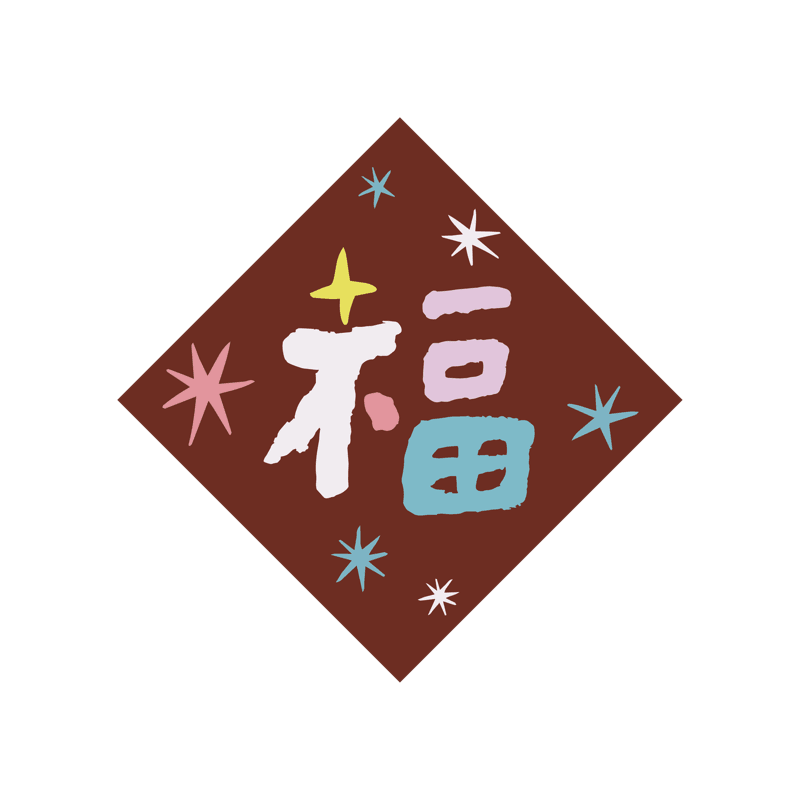
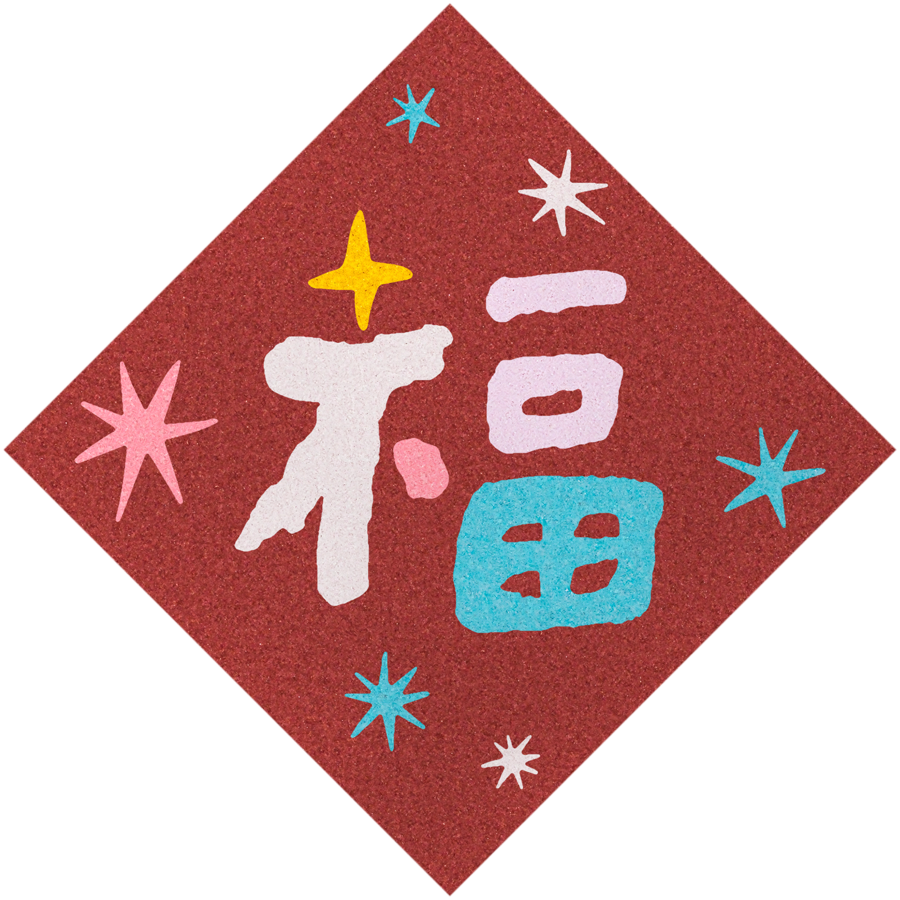
9款春聯沙畫換上實拍質感模擬圖：統一背景首圖＋三色配色示範
使用者提供的新模擬圖取代原本的扁平向量插圖：

- 成品參考圖（出貨配色）：7 款基礎款＋紅／藍羊兩款進階款，全部換成
  帶沙粒顆粒質感、統一白底棚拍風格的新版（{slug}-main.jpg），取代
  原本純色塊無質感的插畫版。寬高比從舊檔的 1:1／4:5 混用統一為新檔
  實際的 4:5（2000×2500），同步更新 <img> 的 width/height 屬性。
- 「搭配自己的顏色」三色配色示範（howto-compare 區塊）：7 款基礎款
  的 combo-1/2/3.png 同步換成沙粒質感版，去背格式與舊檔相同（透明
  邊角的菱形裁切圖），只是質感從平面色塊升級成實拍沙畫顆粒。
- 納福燈籠／迎春燈籠兩款沒有相片牆，combo 檔同時也是首圖輪播
  （data-hero-carousel／data-carousel-frame）用的圖，換檔後兩處
  同步生效，不用個別改 HTML。
- 紅／藍羊因為沒有 howto-compare 配色示範區塊，只換了首圖。

新圖原始檔偏大（combo PNG 因沙粒雜訊 + 透明通道難壓縮，原始
5-6.7MB／張，main.jpg 原始 450-680KB），用 sips 等比縮放到實際
顯示所需的最大尺寸（main.jpg 長邊 1400px、combo 900px）重新壓縮，
27 張圖片總體積從約 150MB 降到約 21MB，畫質在實際顯示尺寸下無
可見差異（已截圖比對）。

已用本機 Playwright 驗證全部 9 頁：新圖正確載入（natural dimension
比對）、三種版位（相片牆首圖／輪播首圖／三色示範格）皆正常顯示、
390px 寬零橫向捲動、零 console error。

diff --git a/products/sand-art-na-fu-lantern/index.html b/products/sand-art-na-fu-lantern/index.html
@@ -161,7 +161,7 @@
            .work__gallery--thumbs-left——這頁沒有實拍相片牆，是配色
            合成示範圖輪播，兩種元件結構不同，不能直接套用縮圖牆樣式。 -->
       <div class="work__intro-photo work__intro-photo--carousel fade-in" data-hero-carousel>
-        <img src="../../assets/images/products/sand-art-na-fu-lantern/sand-art-na-fu-lantern-main.jpg" alt="春聯砂畫材料包・燈上納福 Lit in Na Fu 成品參考圖（出貨配色）" width="800" height="800" loading="lazy" class="is-active" data-carousel-frame>
+        <img src="../../assets/images/products/sand-art-na-fu-lantern/sand-art-na-fu-lantern-main.jpg" alt="春聯砂畫材料包・燈上納福 Lit in Na Fu 成品參考圖（出貨配色）" width="2000" height="2500" loading="lazy" class="is-active" data-carousel-frame>
         <img src="../../assets/images/products/sand-art-na-fu-lantern/sand-art-na-fu-lantern-combo-2.png" alt="「燈上納福 Lit in Na Fu」配色示範，僅供搭配參考，非出貨配色" loading="lazy" data-carousel-frame>
         <img src="../../assets/images/products/sand-art-na-fu-lantern/sand-art-na-fu-lantern-combo-3.png" alt="「燈上納福 Lit in Na Fu」配色示範，僅供搭配參考，非出貨配色" loading="lazy" data-carousel-frame>
         <div class="hero-carousel__dots" aria-hidden="true"><span class="is-active"></span><span></span><span></span></div>

diff --git a/products/sand-art-ying-chun-lantern/index.html b/products/sand-art-ying-chun-lantern/index.html
@@ -161,7 +161,7 @@
            維持原本配色輪播，不套用縮圖牆樣式，理由見
            sand-art-na-fu-lantern/index.html 同一處說明。 -->
       <div class="work__intro-photo work__intro-photo--carousel fade-in" data-hero-carousel>
-        <img src="../../assets/images/products/sand-art-ying-chun-lantern/sand-art-ying-chun-lantern-main.jpg" alt="春聯砂畫材料包・燈上迎春 Lit in Chun 成品參考圖（出貨配色）" width="800" height="800" loading="lazy" class="is-active" data-carousel-frame>
+        <img src="../../assets/images/products/sand-art-ying-chun-lantern/sand-art-ying-chun-lantern-main.jpg" alt="春聯砂畫材料包・燈上迎春 Lit in Chun 成品參考圖（出貨配色）" width="2000" height="2500" loading="lazy" class="is-active" data-carousel-frame>
         <img src="../../assets/images/products/sand-art-ying-chun-lantern/sand-art-ying-chun-lantern-combo-2.png" alt="「燈上迎春 Lit in Chun」配色示範，僅供搭配參考，非出貨配色" loading="lazy" data-carousel-frame>
         <img src="../../assets/images/products/sand-art-ying-chun-lantern/sand-art-ying-chun-lantern-combo-3.png" alt="「燈上迎春 Lit in Chun」配色示範，僅供搭配參考，非出貨配色" loading="lazy" data-carousel-frame>
         <div class="hero-carousel__dots" aria-hidden="true"><span class="is-active"></span><span></span><span></span></div>

diff --git a/products/sand-art-chun/index.html b/products/sand-art-chun/index.html
@@ -172,7 +172,7 @@
            說明，這裡不重複寫一次，只標註跟那頁不同的客製化部分。 -->
       <div class="work__gallery work__gallery--thumbs-left fade-in" data-gallery>
         <div class="work__gallery-main" data-gallery-main>
-          <img src="../../assets/images/products/sand-art-chun/sand-art-chun-main.jpg" alt="成品參考圖（出貨配色）" width="1200" height="1200" loading="eager" class="is-active" data-gallery-frame>
+          <img src="../../assets/images/products/sand-art-chun/sand-art-chun-main.jpg" alt="成品參考圖（出貨配色）" width="2000" height="2500" loading="eager" class="is-active" data-gallery-frame>
           <img src="../../assets/images/products/sand-art-chun/sand-art-chun-gallery-02.jpg" alt="手持完成的「春」成品，桌面還留著製作過程的痕跡" loading="lazy" data-gallery-frame>
           <video src="../../assets/videos/products/sand-art-chun/gallery-brush.mp4" poster="../../assets/images/products/sand-art-chun/sand-art-chun-gallery-brush-poster.jpg" autoplay muted loop playsinline aria-label="用排刷鋪色過程展示影片" data-gallery-frame></video>
           <img src="../../assets/images/products/sand-art-chun/sand-art-chun-gallery-03.jpg" alt="窗邊光線下手持完成的「春」成品" loading="lazy" data-gallery-frame>

diff --git a/products/sand-art-na-fu/index.html b/products/sand-art-na-fu/index.html
@@ -165,7 +165,7 @@
       <!-- 首圖實拍相片牆：比照春／財／福／迎春，取代原本的配色自動輪播。 -->
       <div class="work__gallery work__gallery--thumbs-left fade-in" data-gallery>
         <div class="work__gallery-main" data-gallery-main>
-          <img src="../../assets/images/products/sand-art-na-fu/sand-art-na-fu-main.jpg" alt="成品參考圖（出貨配色）" width="1600" height="1600" loading="eager" class="is-active" data-gallery-frame>
+          <img src="../../assets/images/products/sand-art-na-fu/sand-art-na-fu-main.jpg" alt="成品參考圖（出貨配色）" width="2000" height="2500" loading="eager" class="is-active" data-gallery-frame>
           <video src="../../assets/videos/products/sand-art-na-fu/gallery-reveal.mp4" poster="../../assets/images/products/sand-art-na-fu/sand-art-na-fu-gallery-reveal-poster.jpg" autoplay muted loop playsinline aria-label="完成的「納福」成品展示影片" data-gallery-frame></video>
           <img src="../../assets/images/products/sand-art-na-fu/sand-art-na-fu-gallery-06.jpg" alt="與「迎春」擺放在一起的情境照" loading="lazy" data-gallery-frame>
           <img src="../../assets/images/products/sand-art-na-fu/sand-art-na-fu-gallery-02.jpg" alt="貓咪陪伴作品（情境）" loading="lazy" data-gallery-frame>

diff --git a/products/sand-art-fu/index.html b/products/sand-art-fu/index.html
@@ -165,7 +165,7 @@
            介紹」章節的 howto-compare 對照格裡，只是不再出現在首圖。 -->
       <div class="work__gallery work__gallery--thumbs-left fade-in" data-gallery>
         <div class="work__gallery-main" data-gallery-main>
-          <img src="../../assets/images/products/sand-art-fu/sand-art-fu-main.jpg" alt="成品參考圖（出貨配色）" width="1200" height="1200" loading="eager" class="is-active" data-gallery-frame>
+          <img src="../../assets/images/products/sand-art-fu/sand-art-fu-main.jpg" alt="成品參考圖（出貨配色）" width="2000" height="2500" loading="eager" class="is-active" data-gallery-frame>
           <img src="../../assets/images/products/sand-art-fu/sand-art-fu-gallery-02.jpg" alt="完成的「福」成品與閃粉筆散放在旁邊" loading="lazy" data-gallery-frame>
           <img src="../../assets/images/products/sand-art-fu/sand-art-fu-gallery-03.jpg" alt="完成的「福」成品，旁邊是撕下來的貼紙底紙" loading="lazy" data-gallery-frame>
           <video src="../../assets/videos/products/sand-art-fu/gallery-brush-01.mp4" poster="../../assets/images/products/sand-art-fu/sand-art-fu-gallery-brush-01-poster.jpg" autoplay muted loop playsinline aria-label="用排刷鋪色過程展示影片一" data-gallery-frame></video>

diff --git a/products/sand-art-ying-chun/index.html b/products/sand-art-ying-chun/index.html
@@ -168,7 +168,7 @@
            其他張照片。 -->
       <div class="work__gallery work__gallery--thumbs-left fade-in" data-gallery>
         <div class="work__gallery-main" data-gallery-main>
-          <img src="../../assets/images/products/sand-art-ying-chun/sand-art-ying-chun-main.jpg" alt="成品參考圖（出貨配色）" width="1600" height="1600" loading="eager" class="is-active" data-gallery-frame>
+          <img src="../../assets/images/products/sand-art-ying-chun/sand-art-ying-chun-main.jpg" alt="成品參考圖（出貨配色）" width="2000" height="2500" loading="eager" class="is-active" data-gallery-frame>
           <video src="../../assets/videos/products/sand-art-ying-chun/sand-art-ying-chun-gallery-reveal.mp4" poster="../../assets/images/products/sand-art-ying-chun/sand-art-ying-chun-gallery-02-poster.jpg" autoplay muted loop playsinline aria-label="完成的「迎春」成品展示影片" data-gallery-frame></video>
           <img src="../../assets/images/products/sand-art-ying-chun/sand-art-ying-chun-gallery-03.jpg" alt="窗邊手持完成的「迎春」成品" loading="lazy" data-gallery-frame>
           <img src="../../assets/images/products/sand-art-ying-chun/sand-art-ying-chun-gallery-04.jpg" alt="貓咪陪伴作品（情境）" loading="lazy" data-gallery-frame>

diff --git a/products/sand-art-cai/index.html b/products/sand-art-cai/index.html
@@ -166,7 +166,7 @@
            products/sand-art-fu/index.html 同一處說明。 -->
       <div class="work__gallery work__gallery--thumbs-left fade-in" data-gallery>
         <div class="work__gallery-main" data-gallery-main>
-          <img src="../../assets/images/products/sand-art-cai/sand-art-cai-main.jpg" alt="成品參考圖（出貨配色）" width="1200" height="1200" loading="eager" class="is-active" data-gallery-frame>
+          <img src="../../assets/images/products/sand-art-cai/sand-art-cai-main.jpg" alt="成品參考圖（出貨配色）" width="2000" height="2500" loading="eager" class="is-active" data-gallery-frame>
           <img src="../../assets/images/products/sand-art-cai/sand-art-cai-gallery-02.jpg" alt="完成的「財」成品與製作材料合拍" loading="lazy" data-gallery-frame>
           <video src="../../assets/videos/products/sand-art-cai/gallery-brush-01.mp4" poster="../../assets/images/products/sand-art-cai/sand-art-cai-gallery-brush-01-poster.jpg" autoplay muted loop playsinline aria-label="用排刷鋪色過程展示影片一" data-gallery-frame></video>
           <img src="../../assets/images/products/sand-art-cai/sand-art-cai-gallery-03.jpg" alt="手持完成的「財」成品，角度特寫" loading="lazy" data-gallery-frame>

diff --git a/products/sand-art-artist-sheep-blue/index.html b/products/sand-art-artist-sheep-blue/index.html
@@ -163,7 +163,7 @@
            特寫，不是只有紅款那組材質的翻版。 -->
       <div class="work__gallery work__gallery--thumbs-left fade-in" data-gallery>
         <div class="work__gallery-main" data-gallery-main>
-          <img src="../../assets/images/products/sand-art-artist/sand-art-artist-blue-main.jpg" alt="成品參考圖" width="1280" height="1600" loading="eager" class="is-active" data-gallery-frame>
+          <img src="../../assets/images/products/sand-art-artist/sand-art-artist-blue-main.jpg" alt="成品參考圖" width="2000" height="2500" loading="eager" class="is-active" data-gallery-frame>
           <img src="../../assets/images/products/sand-art-artist/sand-art-artist-blue-gallery-12.jpg" alt="製作過程・收尾" width="1600" height="1600" loading="lazy" data-gallery-frame>
           <img src="../../assets/images/products/sand-art-artist/sand-art-artist-blue-gallery-02.jpg" alt="撕開貼紙過程" width="1600" height="1600" loading="lazy" data-gallery-frame>
           <img src="../../assets/images/products/sand-art-artist/sand-art-artist-blue-gallery-03.jpg" alt="材料與成品合拍" width="1600" height="1600" loading="lazy" data-gallery-frame>

diff --git a/products/sand-art-artist-sheep-red/index.html b/products/sand-art-artist-sheep-red/index.html
@@ -168,7 +168,7 @@
            products/sand-art-fu/index.html 同一處說明。 -->
       <div class="work__gallery work__gallery--thumbs-left fade-in" data-gallery>
         <div class="work__gallery-main" data-gallery-main>
-          <img src="../../assets/images/products/sand-art-artist/sand-art-artist-red-main.jpg" alt="成品參考圖" width="1280" height="1600" loading="eager" class="is-active" data-gallery-frame>
+          <img src="../../assets/images/products/sand-art-artist/sand-art-artist-red-main.jpg" alt="成品參考圖" width="2000" height="2500" loading="eager" class="is-active" data-gallery-frame>
           <img src="../../assets/images/products/sand-art-artist/sand-art-artist-red-gallery-02.jpg" alt="撕開貼紙過程" width="1600" height="1600" loading="lazy" data-gallery-frame>
           <img src="../../assets/images/products/sand-art-artist/sand-art-artist-red-gallery-03.jpg" alt="貓咪聞作品（情境）" width="1600" height="1600" loading="lazy" data-gallery-frame>
           <img src="../../assets/images/products/sand-art-artist/sand-art-artist-red-gallery-04.jpg" alt="夾子細節操作" width="1600" height="1600" loading="lazy" data-gallery-frame>
